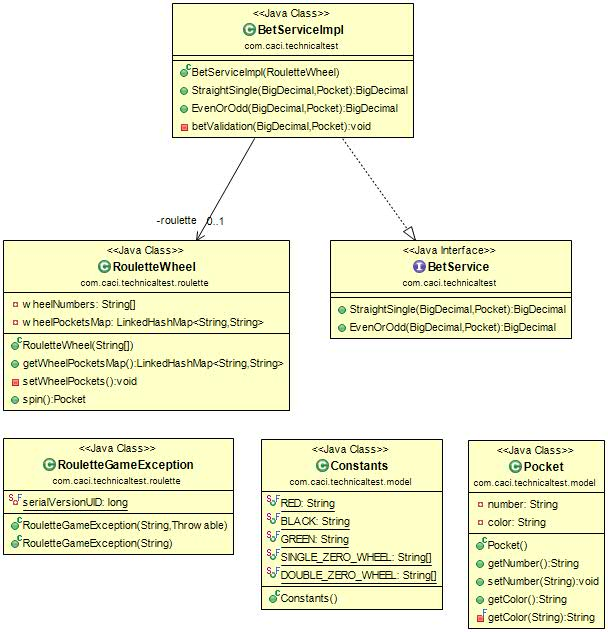
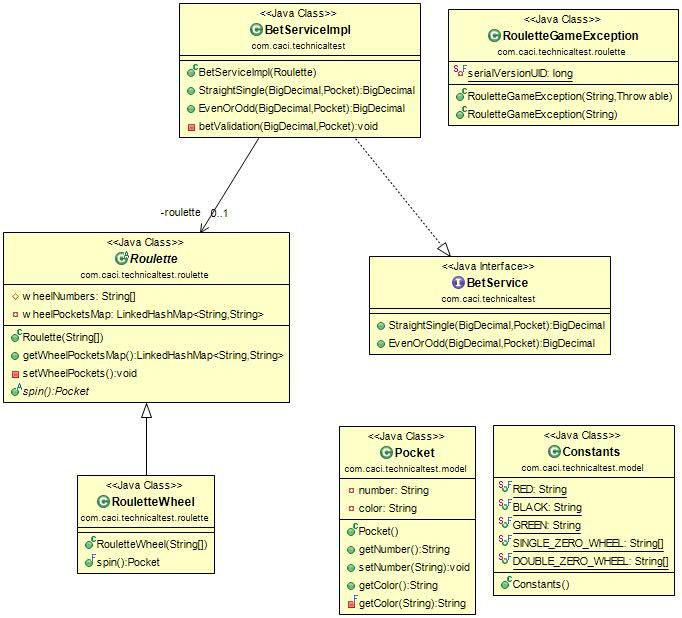
Update Roulette

diff --git a/RouletteSimple/src/com/caci/technicaltest/roulette/RouletteWheel.java b/RouletteSimple/src/com/caci/technicaltest/roulette/RouletteWheel.java
@@ -3,7 +3,6 @@
  */
 package com.caci.technicaltest.roulette;
 
-import java.util.LinkedHashMap;
 import java.util.Random;
 
 import com.caci.technicaltest.model.Pocket;
@@ -12,47 +11,20 @@ import com.caci.technicaltest.model.Pocket;
  * @author Fabrizio
  *
  */
-public class RouletteWheel {
-
-	private String[] wheelNumbers;
-	private LinkedHashMap<String, String> wheelPocketsMap ;
-
-
+public class RouletteWheel extends Roulette{
+	
 	/**
-	 * 
 	 * @param wheelNumbers
 	 */
 	public RouletteWheel(String[] wheelNumbers) {
-		this.wheelNumbers = wheelNumbers;
-		setWheelPockets();
+		super(wheelNumbers);
 	}
 
-	public LinkedHashMap<String, String> getWheelPocketsMap() {
-		return wheelPocketsMap;
-	}
-
-
-    
-	private void setWheelPockets(){
-		LinkedHashMap<String,String> w = new LinkedHashMap<>();
-		for(int i = 0; i<wheelNumbers.length; i++){
-			Pocket p = new Pocket();
-			p.setNumber(wheelNumbers[i]);
-			 
-			w.put(p.getNumber(), p.getColor());
-		}
-
-		this.wheelPocketsMap = w;
-	}
-
-
-
-	public Pocket spin(){
+	public final Pocket spin(){
 		Random r = new Random();
 		int i = r.nextInt(wheelNumbers.length);
 		Pocket p = new Pocket();
 		p.setNumber(wheelNumbers[i]);
- 
 		return p;
 	}
 

diff --git a/RouletteSimple/src/test/BetServiceImplTest.java b/RouletteSimple/src/test/BetServiceImplTest.java
@@ -17,8 +17,9 @@ import com.caci.technicaltest.BetService;
 import com.caci.technicaltest.BetServiceImpl;
 import com.caci.technicaltest.model.Constants;
 import com.caci.technicaltest.model.Pocket;
+import com.caci.technicaltest.roulette.Roulette;
 import com.caci.technicaltest.roulette.RouletteGameException;
-import com.caci.technicaltest.roulette.RouletteWheel;
+
 
 /**
  * @author Fabrizio
@@ -217,13 +218,12 @@ public class BetServiceImplTest {
 	@Test
 	public void EvenOrOdd_4() {
 		rouletteTest = new RouletteWheelTest(Constants.DOUBLE_ZERO_WHEEL);
-		System.out.println(rouletteTest.getWheelPocketsMap().size());
 		assertTrue(rouletteTest.getWheelPocketsMap().containsKey("00"));
 	}
 
 
 }		
-class RouletteWheelTest extends RouletteWheel{
+class RouletteWheelTest extends Roulette{
 	private int key;
 	private String[] wheelNumbers;
 	/**
@@ -242,7 +242,7 @@ class RouletteWheelTest extends RouletteWheel{
 	}
 
 	@Override
-	public Pocket spin(){
+	public final Pocket spin(){
 		Pocket p = new Pocket();
 		p.setNumber(wheelNumbers[key]);
 

diff --git a/RouletteSimple/src/com/caci/technicaltest/BetServiceImpl.java b/RouletteSimple/src/com/caci/technicaltest/BetServiceImpl.java
@@ -7,6 +7,7 @@ import java.math.BigDecimal;
 
 import com.caci.technicaltest.model.Constants;
 import com.caci.technicaltest.model.Pocket;
+import com.caci.technicaltest.roulette.Roulette;
 import com.caci.technicaltest.roulette.RouletteGameException;
 import com.caci.technicaltest.roulette.RouletteWheel;
 
@@ -17,12 +18,12 @@ import com.caci.technicaltest.roulette.RouletteWheel;
  */
 public class BetServiceImpl implements BetService {
 
-	private RouletteWheel roulette;
+	private Roulette roulette;
 
 	/**
 	 * @param roulette
 	 */
-	public BetServiceImpl(RouletteWheel roulette) {
+	public BetServiceImpl(Roulette roulette) {
 		super();
 		this.roulette = roulette;
 	}
